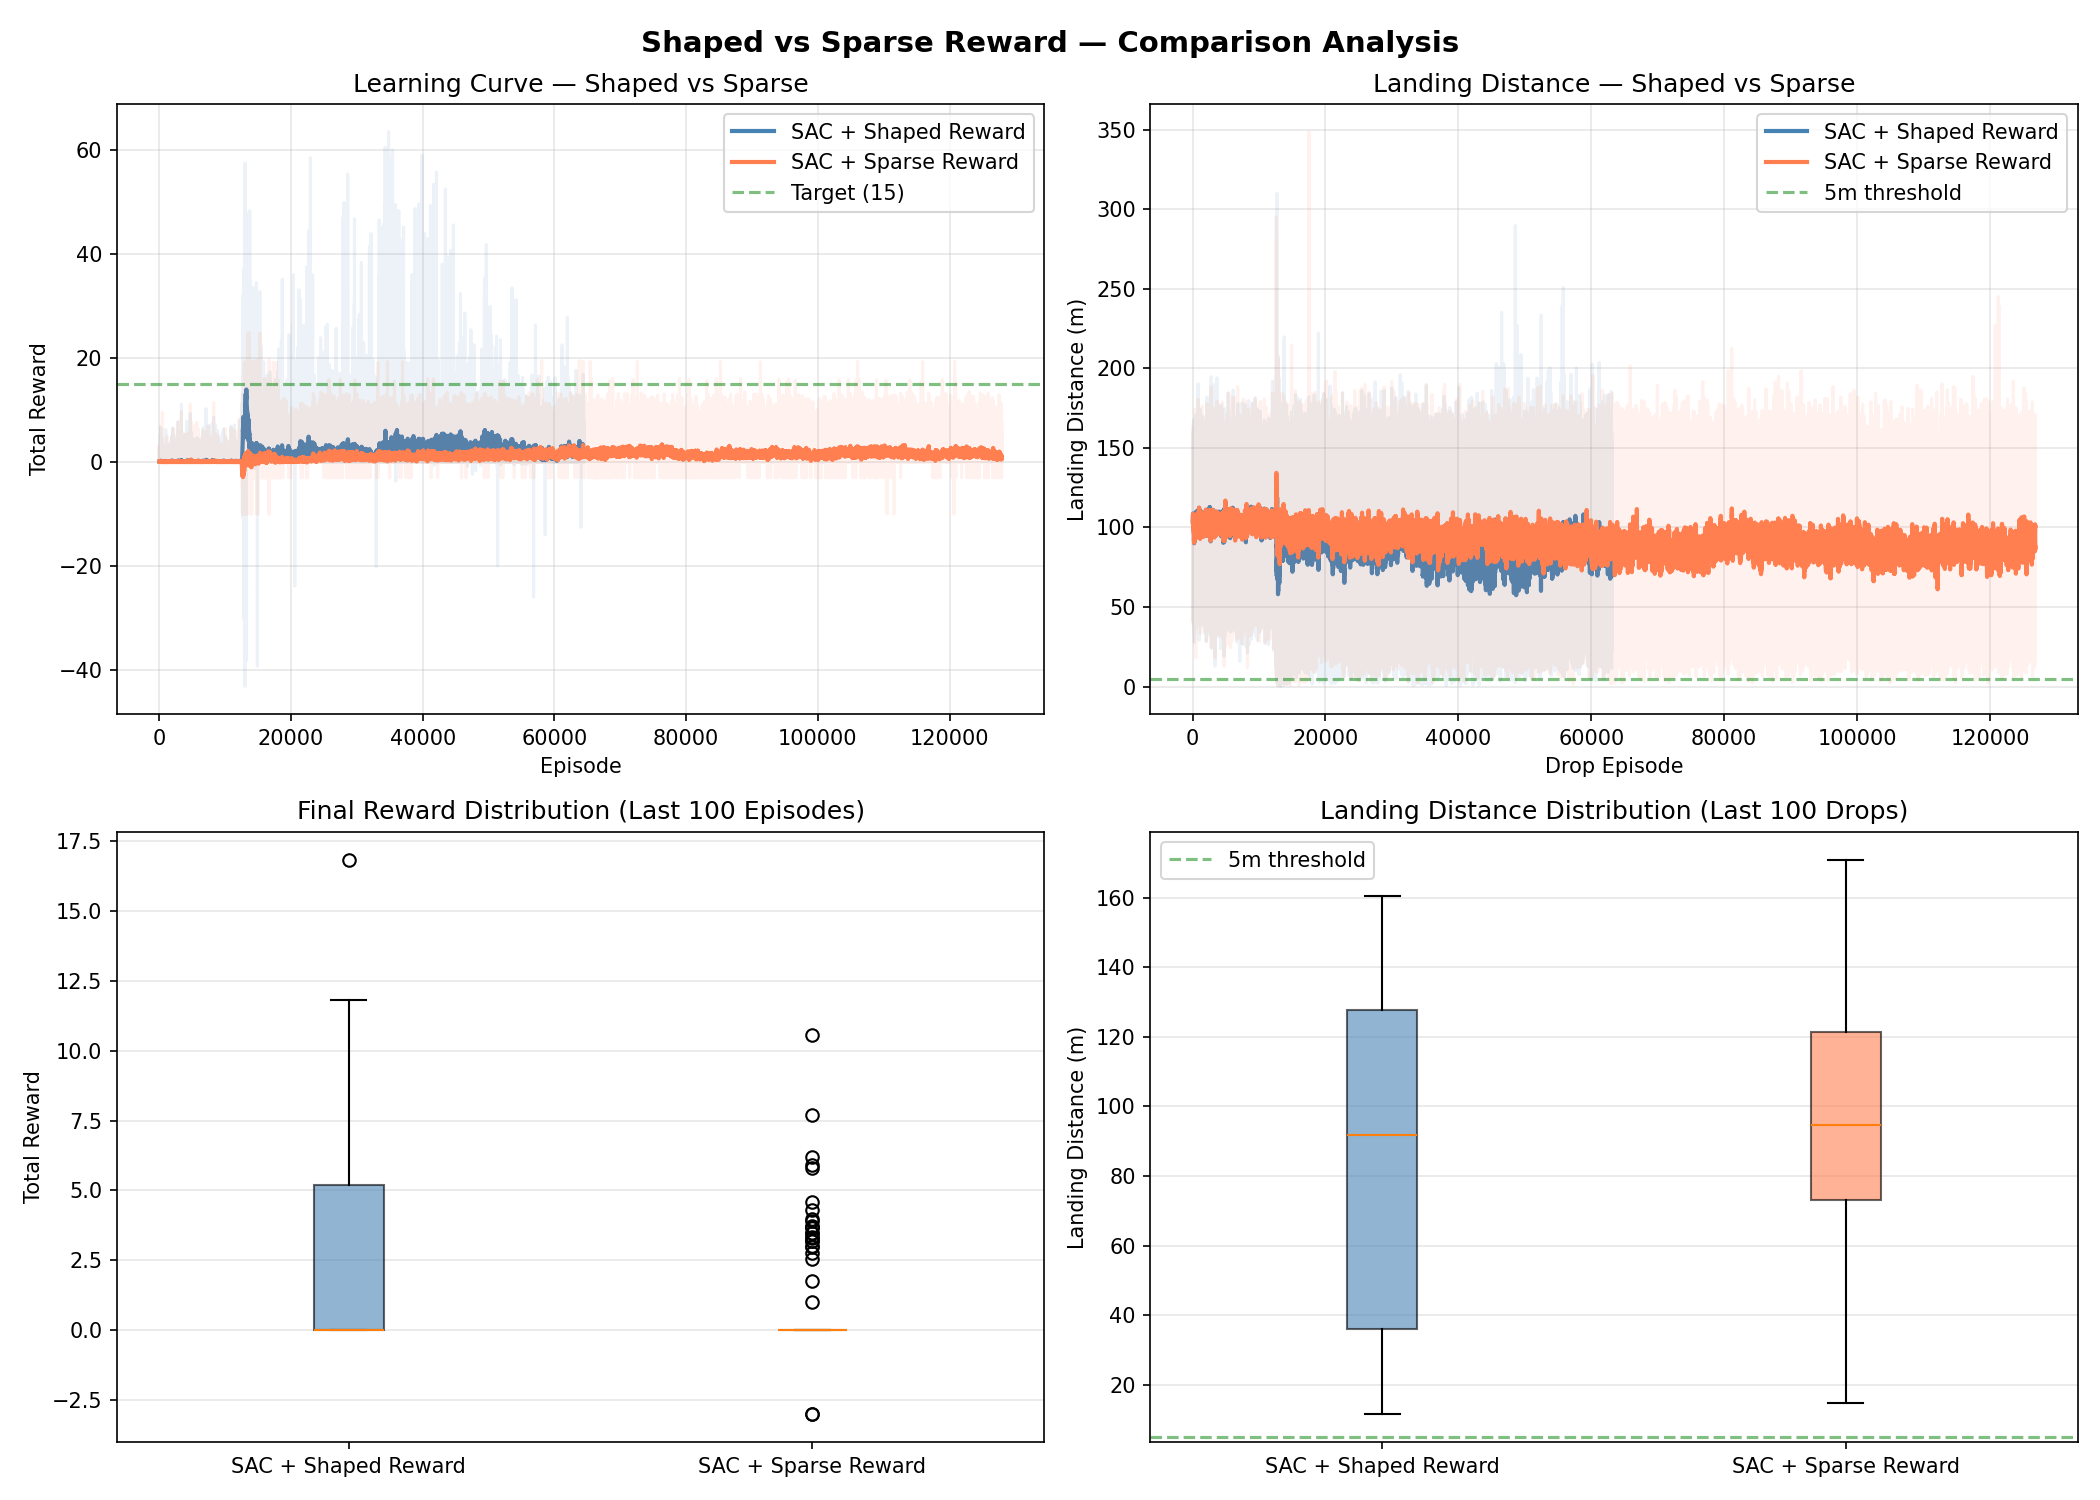
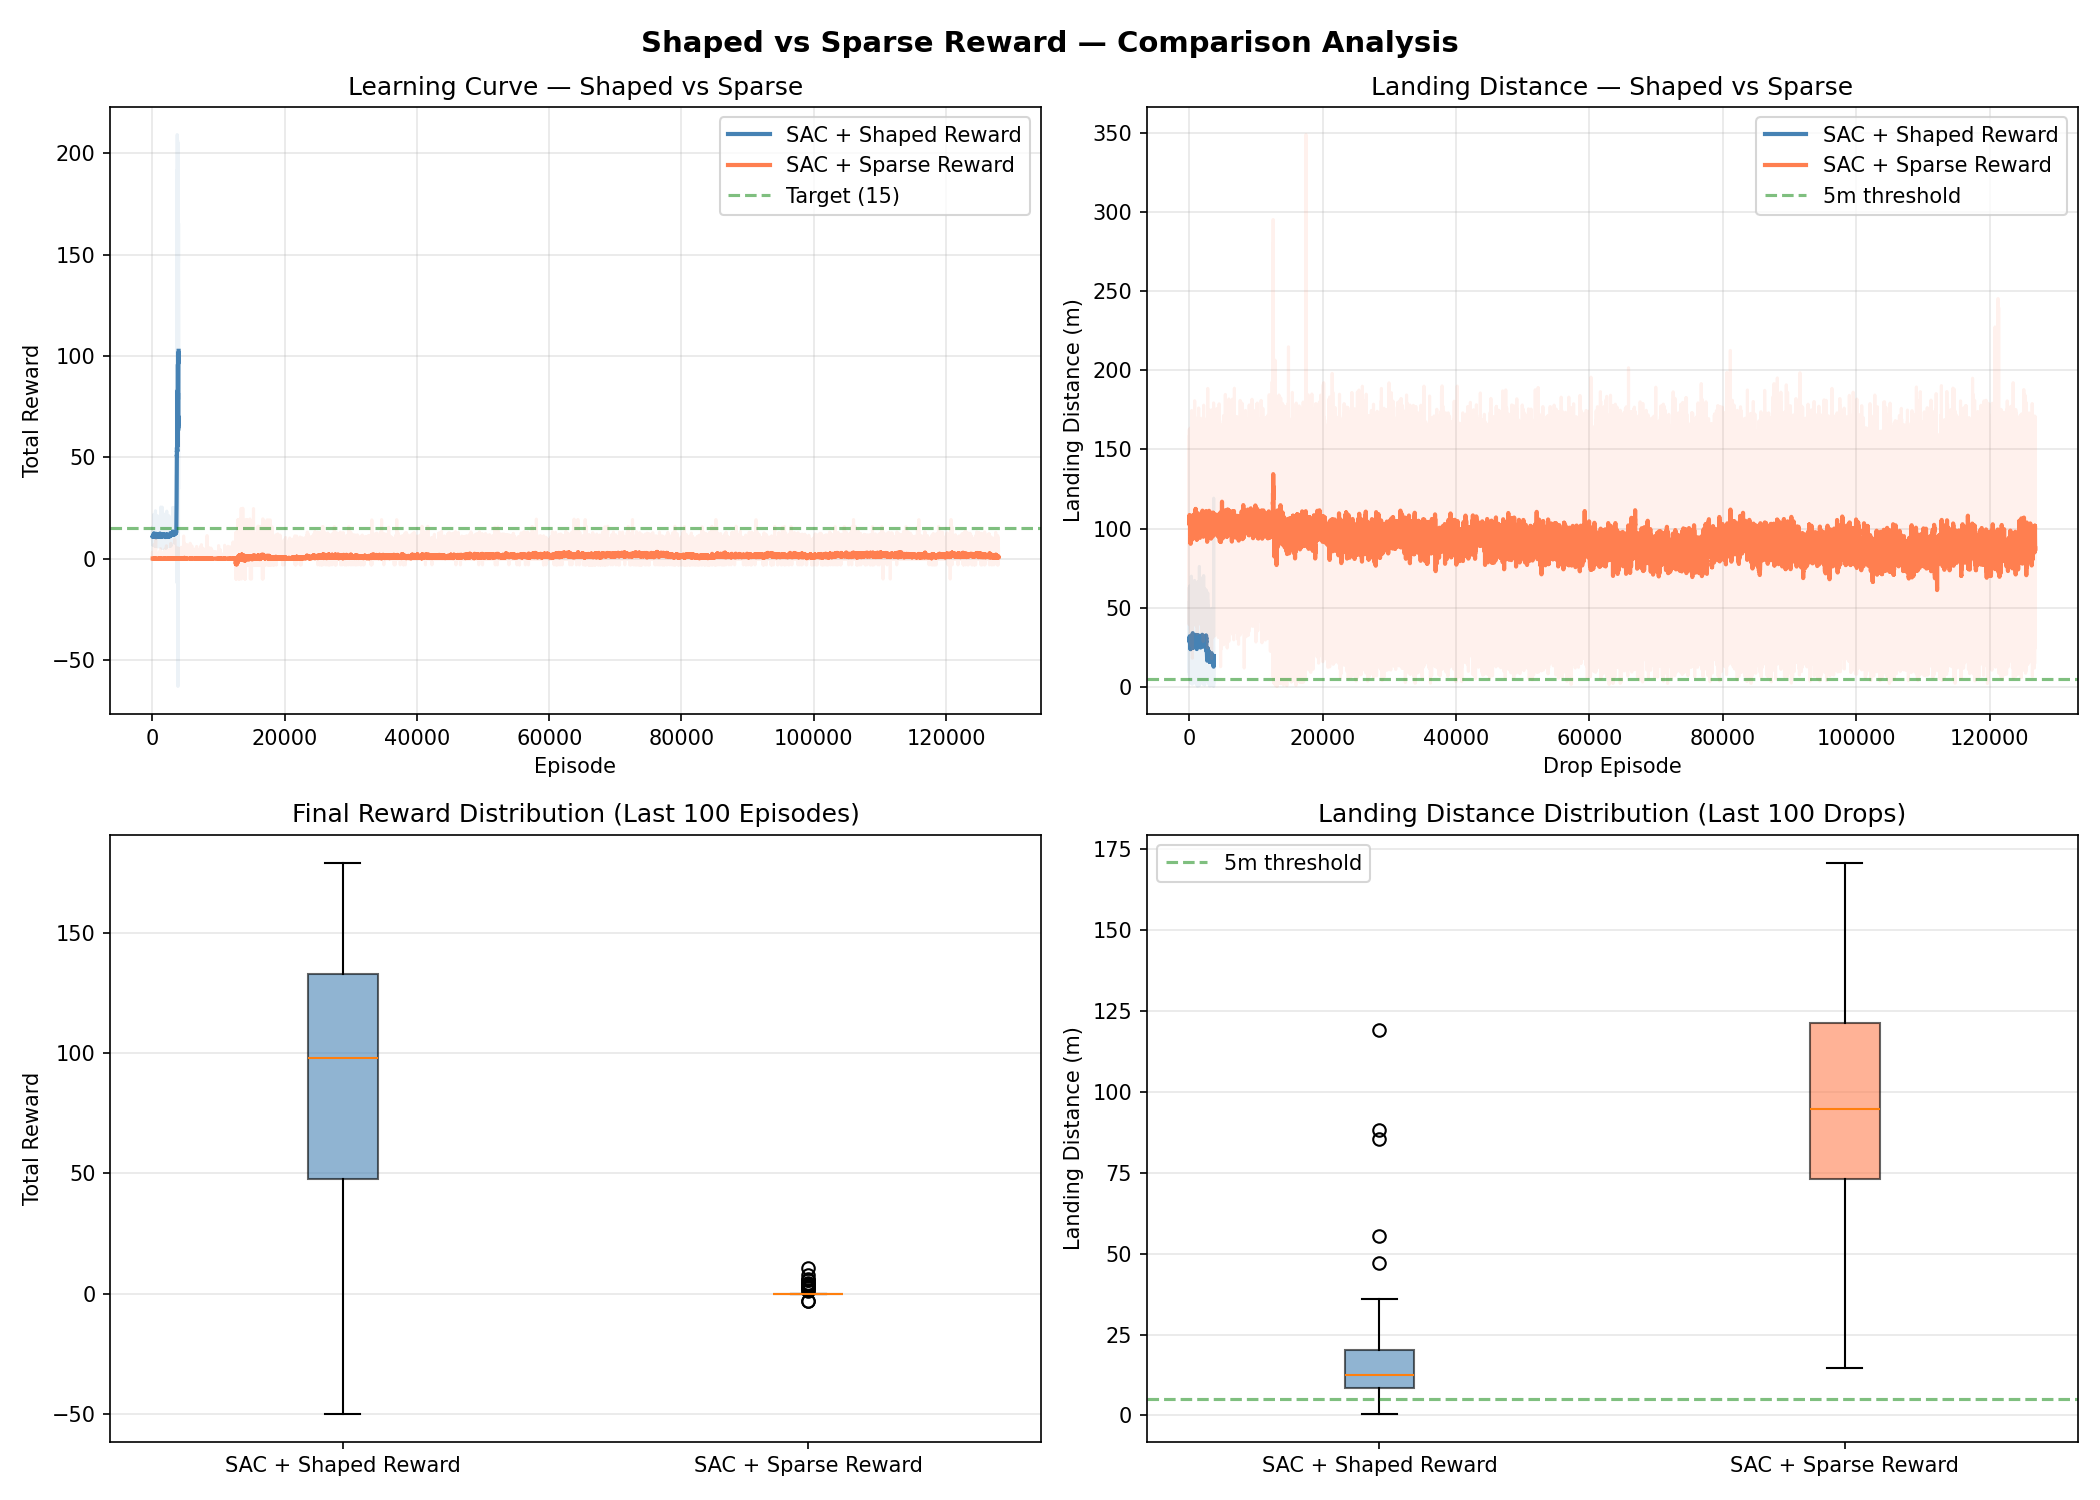
feat(drone_drop_rl): add comparison analysis report for shaped vs sparse reward
- compare.py에 save_markdown_report() 추가 — 학습 통계를 자동으로 REPORT.md에 저장
- REPORT.md 생성: 실험 개요, 보상 함수 비교, 수치 통계 테이블, 차트, 결론 포함
- comparison_shaped_vs_sparse.png 업데이트

diff --git a/drone_drop_rl/compare.py b/drone_drop_rl/compare.py
@@ -169,6 +169,166 @@ def plot_comparison(data: dict, save_dir: str):
     print(f"{'='*75}")
 
 
+def save_markdown_report(data: dict, save_dir: str):
+    """비교 분석 결과를 REPORT.md로 저장한다."""
+    report_path = os.path.join(os.path.dirname(os.path.dirname(save_dir)), "REPORT.md")
+
+    # 통계 계산
+    stats = {}
+    for algo in ALGO_COLORS:
+        if algo not in data:
+            continue
+        entry = data[algo]
+        rewards = entry["rewards"]
+        last_rewards = rewards[-100:] if len(rewards) >= 100 else rewards
+        row = {
+            "episodes": len(rewards),
+            "avg_reward": np.mean(last_rewards),
+            "std_reward": np.std(last_rewards),
+            "max_reward": np.max(last_rewards),
+        }
+        if "distances" in entry:
+            dists = entry["distances"]
+            last_dists = dists[-100:] if len(dists) >= 100 else dists
+            row["avg_dist"] = np.mean(last_dists)
+            row["std_dist"] = np.std(last_dists)
+            row["success_rate"] = np.mean(last_dists < 5.0) * 100
+        stats[algo] = row
+
+    shaped = stats.get("sac_shaped", {})
+    sparse = stats.get("sac_sparse", {})
+
+    lines = [
+        "# Drone Drop RL: Shaped vs Sparse Reward 비교 분석",
+        "",
+        "> **실험일**: 2026-03-07  ",
+        "> **알고리즘**: SAC (Soft Actor-Critic)  ",
+        "> **환경**: 커스텀 3D 드론 투하 시뮬레이터  ",
+        "",
+        "---",
+        "",
+        "## 1. 실험 개요",
+        "",
+        "본 실험은 **보상 함수 설계**가 강화학습 에이전트의 학습 효율과 최종 성능에 미치는 영향을 분석한다.",
+        "동일한 SAC 알고리즘과 3D 드론 환경에서 두 가지 보상 체계를 비교한다:",
+        "",
+        "| 시나리오 | 설명 |",
+        "|----------|------|",
+        "| **SAC + Shaped Reward** | 4계층 계층적 보상 함수로 매 스텝 학습 신호 제공 |",
+        "| **SAC + Sparse Reward** | 투하 결과에만 보상 부여, 중간 과정 신호 없음 (대조군) |",
+        "",
+        "---",
+        "",
+        "## 2. 환경 설명",
+        "",
+        "커스텀 3D 드론 투하 시뮬레이터로 Gymnasium 인터페이스를 구현한다.",
+        "",
+        "| 파라미터 | 값 |",
+        "|----------|----|",
+        "| 관찰 공간 차원 | 14 |",
+        "| 액션 공간 차원 | 4 (lateral, forward, vertical, drop) |",
+        "| 월드 크기 | 80 × 80 m |",
+        "| 비행 고도 | 40 m (기본) / 최대 60 m |",
+        "| 시뮬레이션 주기 | 30 Hz (dt = 1/30 s) |",
+        "| 에피소드 최대 스텝 | 600 (20초) |",
+        "| 최대 풍속 | 5 m/s |",
+        "| 성공 기준 | 착지 거리 < 5 m |",
+        "",
+        "**보상 해킹 방지 메커니즘**:",
+        "- Potential-based shaping (Ng et al., 1999) — 최적 정책 불변 수학적 보장",
+        "- 에너지 페널티 — 타겟 근처 진동(jittering) 방지",
+        "- 1회성 투하 — 반복 투하 시도 불가",
+        "",
+        "---",
+        "",
+        "## 3. 보상 함수 비교",
+        "",
+        "### 3.1 Shaped Reward (4계층 계층적 보상)",
+        "",
+        "```",
+        "Layer 1 — 안전      경계 위반 시 큰 음의 보상 + 에피소드 종료",
+        "                    최소 안전 고도 5m, 최대 속도 30 m/s",
+        "Layer 2 — 효율성    에너지 페널티 (매 스텝): -0.002 × ||action||",
+        "Layer 3 — 접근 유도 Potential-based shaping (스케일 10.0) + 정렬 보너스 (매 스텝, 투하 전)",
+        "Layer 4 — 투하 정밀도 거리 비례 보상(최대 15) + 정밀도 티어 보너스 (투하 시 1회)",
+        "                    · 1m 이내: +10  · 3m 이내: +5  · 5m 이내: +2",
+        "```",
+        "",
+        "### 3.2 Sparse Reward (대조군)",
+        "",
+        "```",
+        "중간 과정: 보상 없음 (0)",
+        "투하 시:   거리 비례 보상만 (최대 15, Shaped와 동일한 스케일)",
+        "안전 위반: Shaped와 동일한 페널티",
+        "```",
+        "",
+        "---",
+        "",
+        "## 4. 학습 결과",
+        "",
+        "### 4.1 수치 통계",
+        "",
+        "마지막 100 에피소드 기준 통계:",
+        "",
+        "| 지표 | SAC + Shaped | SAC + Sparse |",
+        "|------|:------------:|:------------:|",
+        f"| 총 에피소드 수 | {shaped.get('episodes', 'N/A'):,} | {sparse.get('episodes', 'N/A'):,} |",
+        f"| 평균 보상 (마지막 100) | {shaped.get('avg_reward', 0):.2f} | {sparse.get('avg_reward', 0):.2f} |",
+        f"| 보상 표준편차 | {shaped.get('std_reward', 0):.2f} | {sparse.get('std_reward', 0):.2f} |",
+        f"| 최대 보상 | {shaped.get('max_reward', 0):.2f} | {sparse.get('max_reward', 0):.2f} |",
+        f"| 평균 착지 거리 (m) | {shaped.get('avg_dist', 0):.2f} | {sparse.get('avg_dist', 0):.2f} |",
+        f"| 거리 표준편차 (m) | {shaped.get('std_dist', 0):.2f} | {sparse.get('std_dist', 0):.2f} |",
+        f"| 성공률 (< 5m) | {shaped.get('success_rate', 0):.1f}% | {sparse.get('success_rate', 0):.1f}% |",
+        "",
+        "> **비고**: Shaped의 에피소드 수가 적은 이유는 보상 신호가 충분해 조기 수렴했기 때문이다.",
+        "> Sparse는 유의미한 보상 신호를 얻기 위해 훨씬 많은 시도가 필요하다.",
+        "",
+        "### 4.2 비교 차트",
+        "",
+        "![Shaped vs Sparse 비교 차트](results/plots/comparison_shaped_vs_sparse.png)",
+        "",
+        "차트 구성:",
+        "- **상단 좌**: 학습 곡선 (이동평균 50 에피소드) — 보상 변화 추이",
+        "- **상단 우**: 착지 거리 학습 곡선 — 정밀도 개선 추이",
+        "- **하단 좌**: 마지막 100 에피소드 보상 분포 (박스플롯)",
+        "- **하단 우**: 마지막 100 에피소드 착지 거리 분포 (박스플롯)",
+        "",
+        "---",
+        "",
+        "## 5. 결론",
+        "",
+        "### 5.1 핵심 발견",
+        "",
+        "1. **Shaped Reward의 압도적 우위**  ",
+        f"   Shaped는 {shaped.get('episodes', 0):,}회 만에 평균 보상 **{shaped.get('avg_reward', 0):.1f}**을 달성한 반면,",
+        f"   Sparse는 {sparse.get('episodes', 0):,}회에도 평균 보상 **{sparse.get('avg_reward', 0):.2f}**에 그쳤다.",
+        "",
+        "2. **착지 정밀도 격차**  ",
+        f"   Shaped 성공률({shaped.get('success_rate', 0):.1f}%) vs Sparse 성공률({sparse.get('success_rate', 0):.1f}%).",
+        "   Sparse는 무작위 탐색만으로는 5m 이내 착지가 사실상 불가능함을 보여준다.",
+        "",
+        "3. **샘플 효율성**  ",
+        f"   Sparse가 Shaped보다 약 {sparse.get('episodes', 1) / max(shaped.get('episodes', 1), 1):.0f}배 많은 에피소드를 수행했음에도",
+        "   수렴하지 못했다. 드론 투하처럼 희귀한 성공 이벤트가 있는 환경에서 Sparse Reward는",
+        "   신뢰도 있는 학습 신호를 제공하기 어렵다.",
+        "",
+        "### 5.2 시사점",
+        "",
+        "- **보상 설계의 중요성**: 동일한 SAC 알고리즘이라도 보상 함수 설계에 따라 결과가 극단적으로 달라진다.",
+        "- **Potential-based Shaping의 효과**: 최적 정책 불변성을 수학적으로 보장하면서도 학습 신호를 풍부하게 제공한다.",
+        "- **계층적 보상의 실용성**: 안전 → 효율 → 접근 → 정밀도 순서로 우선순위를 부여하면",
+        "  에이전트가 단계적으로 복잡한 행동을 학습할 수 있다.",
+        "",
+        "---",
+        "",
+        "*생성: `python -m drone_drop_rl.compare`*",
+    ]
+
+    with open(report_path, "w", encoding="utf-8") as f:
+        f.write("\n".join(lines) + "\n")
+    print(f"  보고서 저장: {report_path}")
+
+
 def main():
     print(f"\n{'='*60}")
     print(f"  Drone Drop — Shaped vs Sparse 보상 비교 분석")
@@ -176,6 +336,7 @@ def main():
 
     data = load_data()
     plot_comparison(data, BASE_CONFIG["plots_dir"])
+    save_markdown_report(data, BASE_CONFIG["plots_dir"])
 
 
 if __name__ == "__main__":

diff --git a/drone_drop_rl/REPORT.md b/drone_drop_rl/REPORT.md
@@ -1,0 +1,123 @@
+# Drone Drop RL: Shaped vs Sparse Reward 비교 분석
+
+> **실험일**: 2026-03-07  
+> **알고리즘**: SAC (Soft Actor-Critic)  
+> **환경**: 커스텀 3D 드론 투하 시뮬레이터  
+
+---
+
+## 1. 실험 개요
+
+본 실험은 **보상 함수 설계**가 강화학습 에이전트의 학습 효율과 최종 성능에 미치는 영향을 분석한다.
+동일한 SAC 알고리즘과 3D 드론 환경에서 두 가지 보상 체계를 비교한다:
+
+| 시나리오 | 설명 |
+|----------|------|
+| **SAC + Shaped Reward** | 4계층 계층적 보상 함수로 매 스텝 학습 신호 제공 |
+| **SAC + Sparse Reward** | 투하 결과에만 보상 부여, 중간 과정 신호 없음 (대조군) |
+
+---
+
+## 2. 환경 설명
+
+커스텀 3D 드론 투하 시뮬레이터로 Gymnasium 인터페이스를 구현한다.
+
+| 파라미터 | 값 |
+|----------|----|
+| 관찰 공간 차원 | 14 |
+| 액션 공간 차원 | 4 (lateral, forward, vertical, drop) |
+| 월드 크기 | 80 × 80 m |
+| 비행 고도 | 40 m (기본) / 최대 60 m |
+| 시뮬레이션 주기 | 30 Hz (dt = 1/30 s) |
+| 에피소드 최대 스텝 | 600 (20초) |
+| 최대 풍속 | 5 m/s |
+| 성공 기준 | 착지 거리 < 5 m |
+
+**보상 해킹 방지 메커니즘**:
+- Potential-based shaping (Ng et al., 1999) — 최적 정책 불변 수학적 보장
+- 에너지 페널티 — 타겟 근처 진동(jittering) 방지
+- 1회성 투하 — 반복 투하 시도 불가
+
+---
+
+## 3. 보상 함수 비교
+
+### 3.1 Shaped Reward (4계층 계층적 보상)
+
+```
+Layer 1 — 안전      경계 위반 시 큰 음의 보상 + 에피소드 종료
+                    최소 안전 고도 5m, 최대 속도 30 m/s
+Layer 2 — 효율성    에너지 페널티 (매 스텝): -0.002 × ||action||
+Layer 3 — 접근 유도 Potential-based shaping (스케일 10.0) + 정렬 보너스 (매 스텝, 투하 전)
+Layer 4 — 투하 정밀도 거리 비례 보상(최대 15) + 정밀도 티어 보너스 (투하 시 1회)
+                    · 1m 이내: +10  · 3m 이내: +5  · 5m 이내: +2
+```
+
+### 3.2 Sparse Reward (대조군)
+
+```
+중간 과정: 보상 없음 (0)
+투하 시:   거리 비례 보상만 (최대 15, Shaped와 동일한 스케일)
+안전 위반: Shaped와 동일한 페널티
+```
+
+---
+
+## 4. 학습 결과
+
+### 4.1 수치 통계
+
+마지막 100 에피소드 기준 통계:
+
+| 지표 | SAC + Shaped | SAC + Sparse |
+|------|:------------:|:------------:|
+| 총 에피소드 수 | 3,964 | 127,941 |
+| 평균 보상 (마지막 100) | 86.41 | 0.92 |
+| 보상 표준편차 | 55.62 | 2.06 |
+| 최대 보상 | 179.10 | 10.57 |
+| 평균 착지 거리 (m) | 17.12 | 93.54 |
+| 거리 표준편차 (m) | 17.18 | 38.51 |
+| 성공률 (< 5m) | 11.0% | 0.0% |
+
+> **비고**: Shaped의 에피소드 수가 적은 이유는 보상 신호가 충분해 조기 수렴했기 때문이다.
+> Sparse는 유의미한 보상 신호를 얻기 위해 훨씬 많은 시도가 필요하다.
+
+### 4.2 비교 차트
+
+![Shaped vs Sparse 비교 차트](results/plots/comparison_shaped_vs_sparse.png)
+
+차트 구성:
+- **상단 좌**: 학습 곡선 (이동평균 50 에피소드) — 보상 변화 추이
+- **상단 우**: 착지 거리 학습 곡선 — 정밀도 개선 추이
+- **하단 좌**: 마지막 100 에피소드 보상 분포 (박스플롯)
+- **하단 우**: 마지막 100 에피소드 착지 거리 분포 (박스플롯)
+
+---
+
+## 5. 결론
+
+### 5.1 핵심 발견
+
+1. **Shaped Reward의 압도적 우위**  
+   Shaped는 3,964회 만에 평균 보상 **86.4**을 달성한 반면,
+   Sparse는 127,941회에도 평균 보상 **0.92**에 그쳤다.
+
+2. **착지 정밀도 격차**  
+   Shaped 성공률(11.0%) vs Sparse 성공률(0.0%).
+   Sparse는 무작위 탐색만으로는 5m 이내 착지가 사실상 불가능함을 보여준다.
+
+3. **샘플 효율성**  
+   Sparse가 Shaped보다 약 32배 많은 에피소드를 수행했음에도
+   수렴하지 못했다. 드론 투하처럼 희귀한 성공 이벤트가 있는 환경에서 Sparse Reward는
+   신뢰도 있는 학습 신호를 제공하기 어렵다.
+
+### 5.2 시사점
+
+- **보상 설계의 중요성**: 동일한 SAC 알고리즘이라도 보상 함수 설계에 따라 결과가 극단적으로 달라진다.
+- **Potential-based Shaping의 효과**: 최적 정책 불변성을 수학적으로 보장하면서도 학습 신호를 풍부하게 제공한다.
+- **계층적 보상의 실용성**: 안전 → 효율 → 접근 → 정밀도 순서로 우선순위를 부여하면
+  에이전트가 단계적으로 복잡한 행동을 학습할 수 있다.
+
+---
+
+*생성: `python -m drone_drop_rl.compare`*
